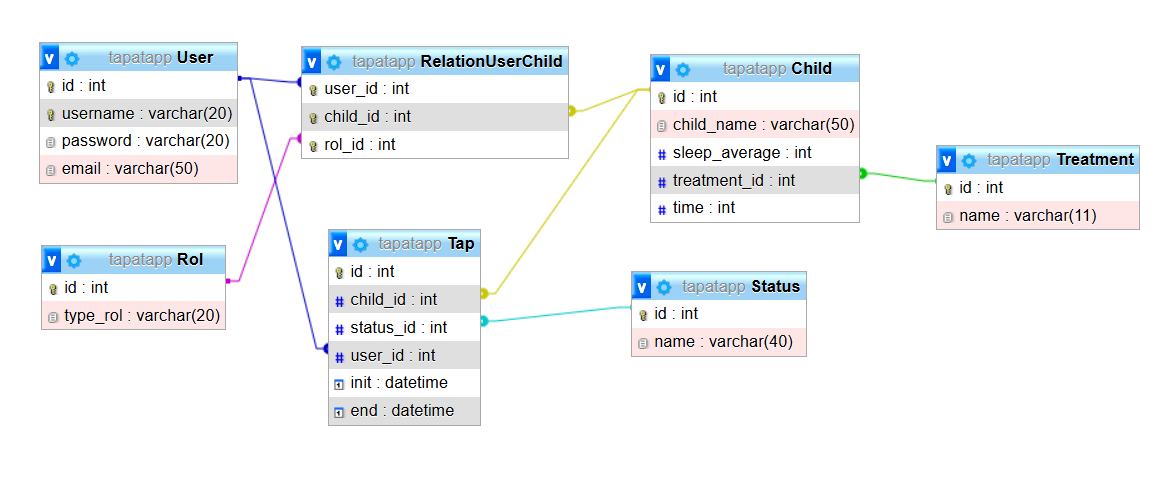
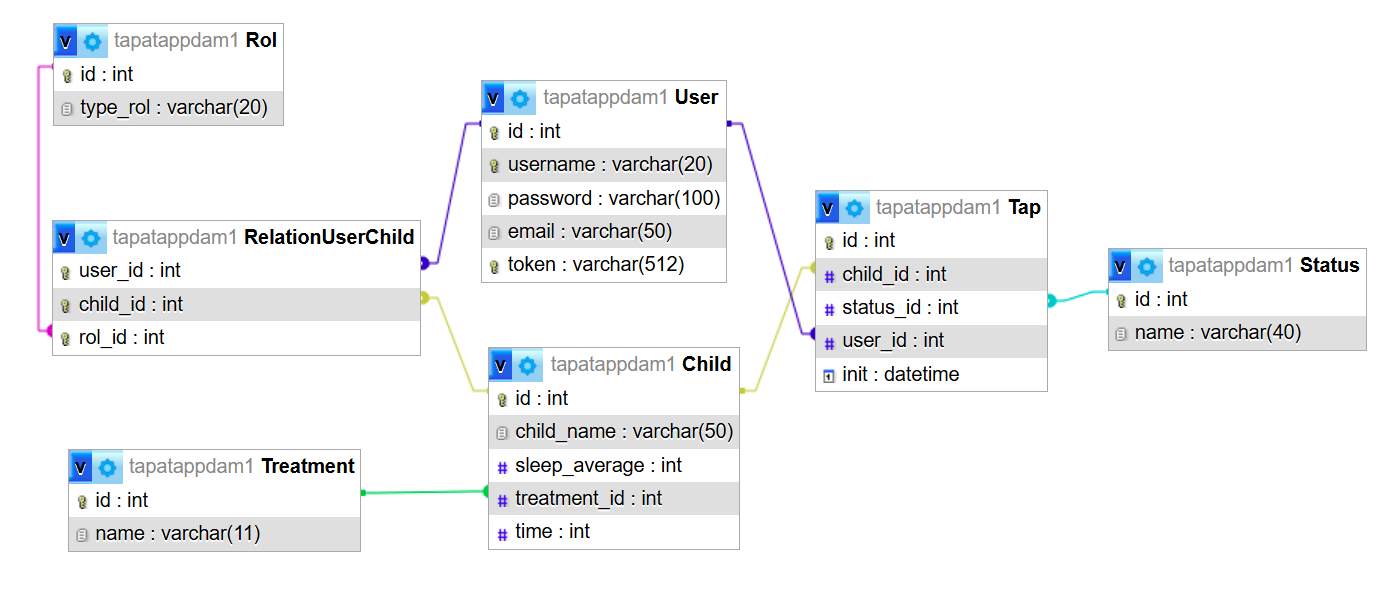
projecte

diff --git a/prototip4/ServerP4.py b/prototip4/ServerP4.py
@@ -1,101 +1,30 @@
-from flask import Flask, jsonify, request
-import json
+from flask import Flask, request, jsonify
+from DAOUser import DAOUser
 
 app = Flask(__name__)
 
-# Dades d'exemple amb List 
-# Clase User 
-class User:
-    def __init__(self, id, username, password, email):
-        self.id = id
-        self.username = username
-        self.password = password
-        self.email = email
-    
-    def __str__(self):
-        return self.username + ":" + self.password + ":" + self.email
+@app.route('/login', methods=['POST'])
+def login():
+    data = request.get_json()
+    identifier = data.get('username')  # username or email
+    password = data.get('password')
+    dao_user = DAOUser()
+    user = dao_user.validate_user(identifier, password)
+    if user:
+        return jsonify({
+            "id": user['id'],
+            "username": user['username'],
+            "email": user['email'],
+            "token": user['token'],
+            "idrole": "2",  # Example role ID
+            "msg": "Usuari Ok",
+            "coderesponse": "1"
+        }), 200
+    else:
+        return jsonify({
+            "coderesponse": "0",
+            "msg": "No validat"
+        }), 400
 
-# Clase Child
-class Child:
-    def __init__(self, id, child_name, sleep_average, treatment_id, time):
-        self.id = id
-        self.child_name = child_name
-        self.sleep_average = sleep_average
-        self.treatment_id = treatment_id
-        self.time = time
-
-# Clase Tap
-class Tap:
-    def __init__(self, id, child_id, status_id, user_id, init, end):
-        self.id = id
-        self.child_id = child_id
-        self.status_id = status_id
-        self.user_id = user_id
-        self.init = init
-        self.end = end
-
-# Clase Status
-class Status:
-    def __init__(self, id, name):
-        self.id = id
-        self.name = name
-
-# Clase Role
-class Role:
-    def __init__(self, id, type_rol):
-        self.id = id
-        self.type_rol = type_rol
-
-# Clase Treatment
-class Treatment:
-    def __init__(self, id, name):
-        self.id = id
-        self.name = name
-
-users = [
-    User(id=1, username="mare", password="12345", email="prova@gmail.com"),
-    User(id=2, username="pare", password="123", email="prova2@gmail.com")
-]
-
-# Crear les classes Child, Tap, Role, Status i Treatment
-
-children = [
-    Child(id=1, child_name="Carol Child", sleep_average=8, treatment_id=1, time=6),
-    Child(id=2, child_name="Jaco Child", sleep_average=10, treatment_id=2, time=6)
-]
-
-taps = [
-    Tap(id=1, child_id=1, status_id=1, user_id=1, init="2024-12-18T19:42:43", end="2024-12-18T20:42:43"),
-    Tap(id=2, child_id=2, status_id=2, user_id=2, init="2024-12-18T21:42:43", end="2024-12-18T22:42:43")
-]
-
-relation_user_child = [
-    {"user_id": 1, "child_id": 1, "rol_id": 1},
-    {"user_id": 1, "child_id": 2, "rol_id": 1},
-    {"user_id": 1, "child_id": 1, "rol_id": 2},
-    {"user_id": 2, "child_id": 2, "rol_id": 1},
-    {"user_id": 2, "child_id": 2, "rol_id": 2}
-]
-
-roles = [
-    Role(id=1, type_rol='Admin'),
-    Role(id=2, type_rol='Tutor Mare Pare'),
-    Role(id=3, type_rol='Cuidador'),
-    Role(id=4, type_rol='Seguiment')
-]
-
-statuses = [
-    Status(id=1, name="sleep"),
-    Status(id=2, name="awake"),
-    Status(id=3, name="yes_eyepatch"),
-    Status(id=4, name="no_eyepatch")
-]
-
-treatments = [
-    Treatment(id=1, name='Hour'),
-    Treatment(id=2, name='percentage')
-]
-
-
-
-
+if __name__ == '__main__':
+    app.run(debug=True)

diff --git a/prototip4/hash.py b/prototip4/hash.py
@@ -1,27 +1,15 @@
 import hashlib
 
-def hash_text(text, algorithm='sha256'):
+def hash_text(text):
     """
-    Genera el hash d'un text utilitzant l'algorisme especificat.
-    
-    :param text: El text a hashejar.
-    :param algorithm: L'algorisme de hash (per defecte 'sha256').
-    :return: El hash generat en format hexadecimal.
+    Generates a SHA-256 hash for the given text.
+
+    Args:
+        text (str): The input text to hash.
+
+    Returns:
+        str: The resulting hash in hexadecimal format.
     """
-    try:
-        # Crear un objecte hash utilitzant l'algorisme especificat
-        hash_object = hashlib.new(algorithm)
-        # Codificar el text a bytes i actualitzar l'objecte hash
-        hash_object.update(text.encode('utf-8'))
-        # Retornar el hash en format hexadecimal
-        return hash_object.hexdigest()
-    except ValueError:
-        return f"Algorisme '{algorithm}' no suportat."
+    return hashlib.md5(text.encode('utf-8')).hexdigest()
 
-# Exemple d'ús
-if __name__ == "__main__":
-    text = input("Introdueix el text a hashejar: ")
-    algorithm = input("Introdueix l'algorisme de hash (sha256, sha1, md5, etc.): ") or 'sha256'
-    hashed_text = hash_text(text, algorithm)
-    print(f"El hash generat és: {hashed_text}")
-
+print(hash_text("12345"))  # Example usage

diff --git a/testlogin.py b/testlogin.py
@@ -1,0 +1,35 @@
+import unittest
+import requests
+
+class TestLoginService(unittest.TestCase):
+
+    BASE_URL = "http://127.0.0.1:5000/login"
+
+    def test_login_success(self):
+        payload = {
+            "username": "mare",
+            "password": "827ccb0eea8a706c4c34a16891f84e7b"
+        }
+        response = requests.post(self.BASE_URL, json=payload)
+        self.assertEqual(response.status_code, 200)
+        data = response.json()
+        self.assertEqual(data["id"], 1)
+        self.assertEqual(data["username"], "mare")
+        self.assertEqual(data["email"], "prova@gmail.com")
+        self.assertEqual(data["idrole"], "2")
+        self.assertEqual(data["msg"], "Usuari Ok")
+        self.assertEqual(data["coderesponse"], "1")
+
+    def test_login_failure(self):
+        payload = {
+            "username": "mare",
+            "password": "123123123"
+        }
+        response = requests.post(self.BASE_URL, json=payload)
+        self.assertEqual(response.status_code, 400)
+        data = response.json()
+        self.assertEqual(data["coderesponse"], "0")
+        self.assertEqual(data["msg"], "No validat")
+
+if __name__ == "__main__":
+    unittest.main()

diff --git a/prototip4/DAOUser.py b/prototip4/DAOUser.py
@@ -22,14 +22,3 @@ class DAOUser:
     def close_connection(self):
         self.cursor.close()
         self.connection.close()
-
-
-# Example usage:   
-DAOUser = DAOUser()
-user = DAOUser.validate_user("mare", "mare")  
-if user:
-    print("User found:", user)
-else:
-    print("User not found") 
-DAOUser.close_connection()
-# The above code defines a DAOUser class that connects to a MySQL database and validates user credentials.
